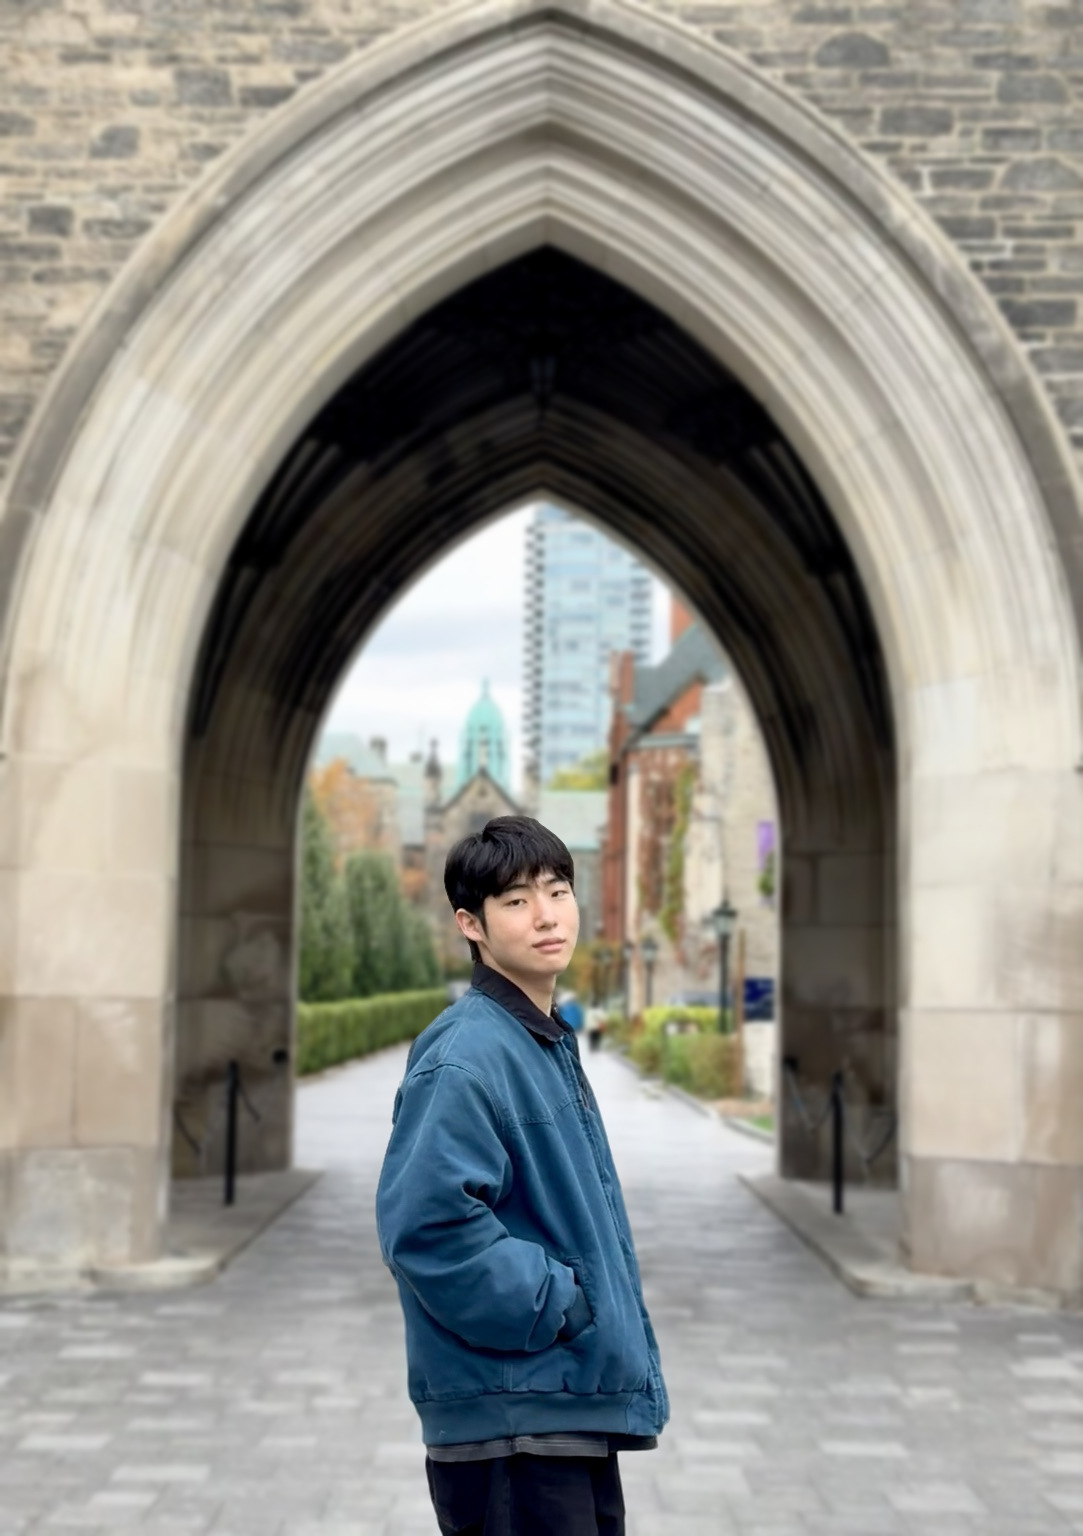
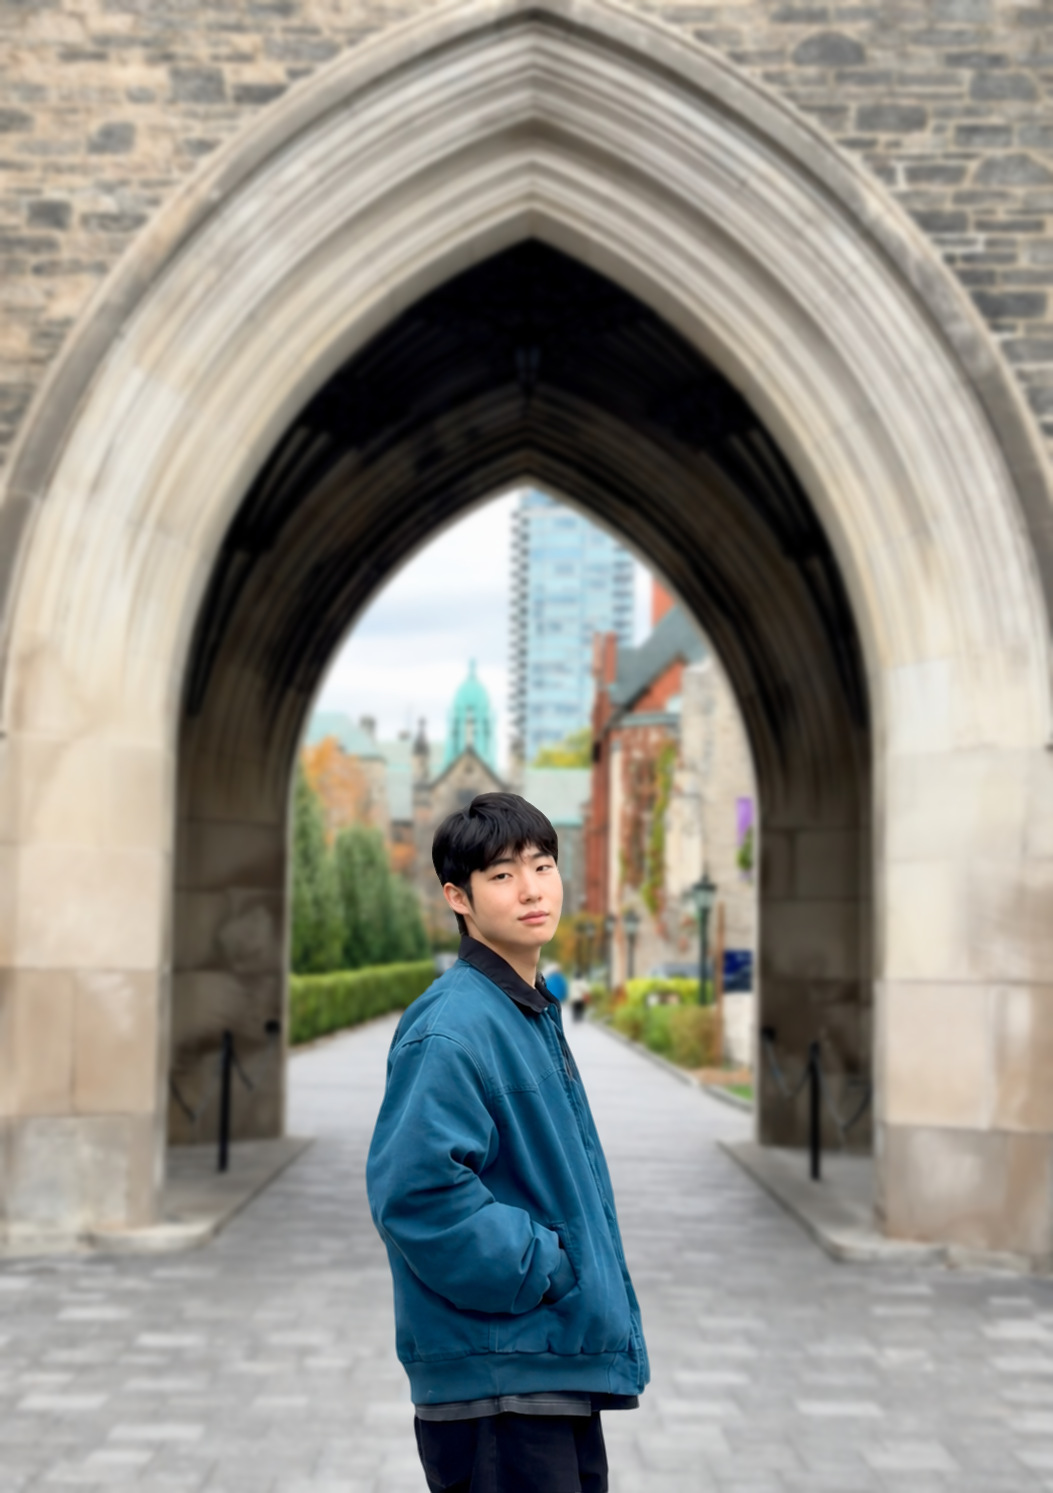
Use the retouched profile photo with the earlier crop, zoomed in 2.5%

diff --git a/styles.css b/styles.css
@@ -92,10 +92,10 @@ a:hover {
   position: absolute;
   top: 50%;
   left: 50%;
-  width: 196%;
+  width: 191.7%;
   max-width: none;
   height: auto;
-  transform: translate(-49%, -60%);
+  transform: translate(-49%, -61.5%);
 }
 
 .eyebrow {
